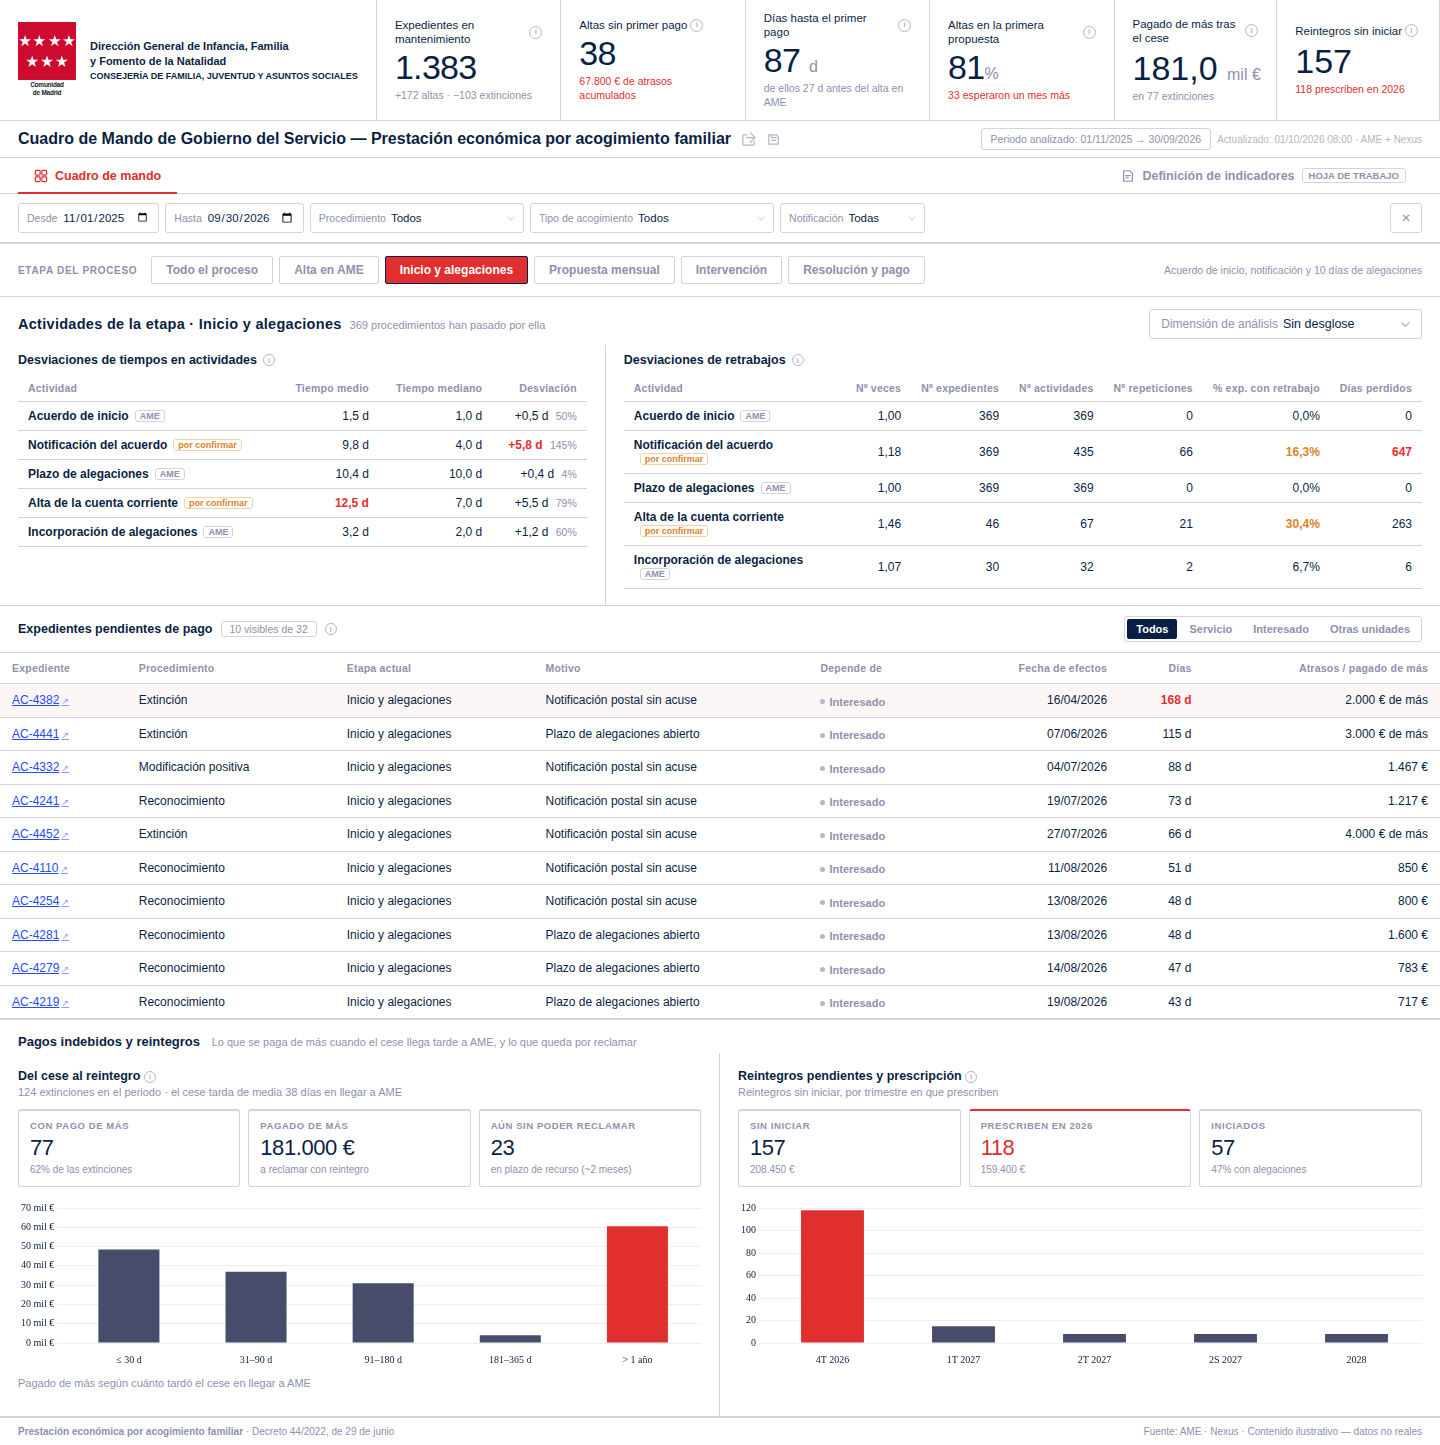
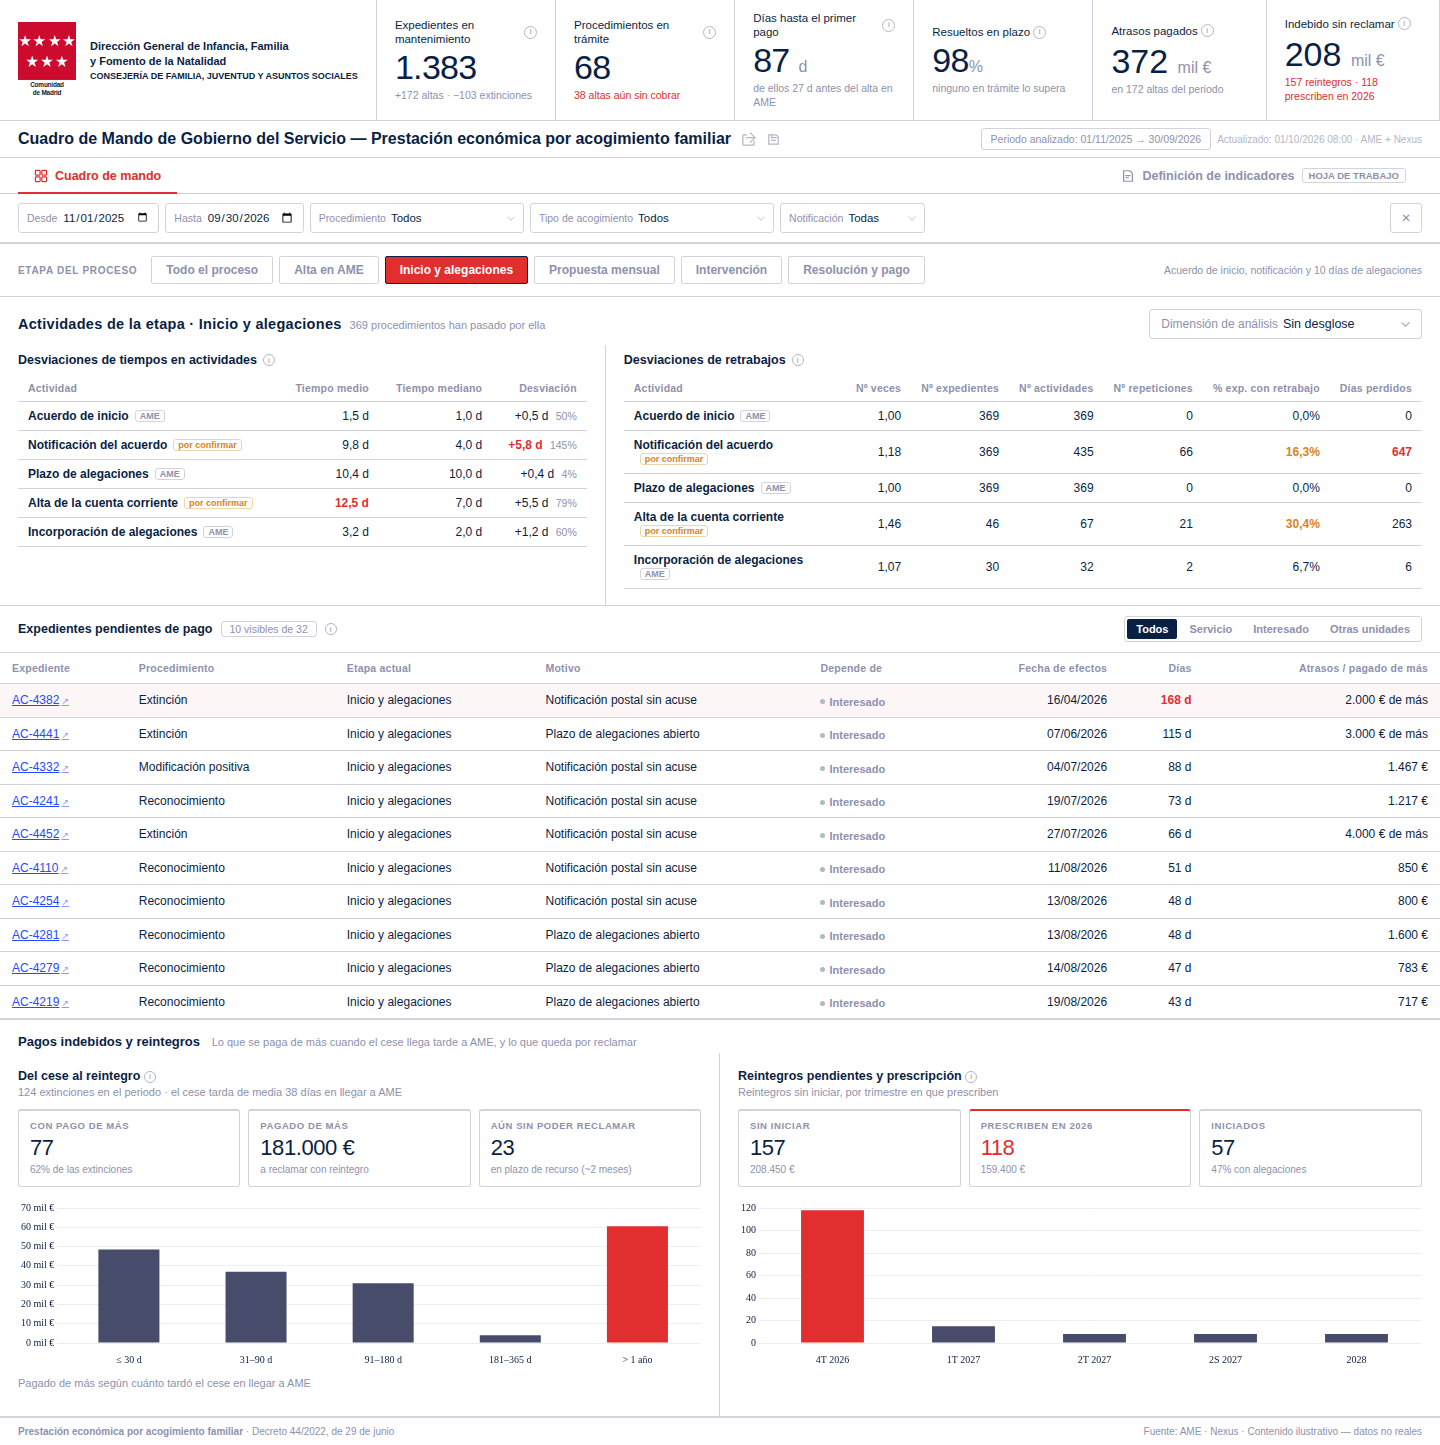
Acogimiento v2: cabecera con indicadores globales (en trámite, plazo legal de 3 meses, atrasos e indebido)
Claude-Session: https://claude.ai/code/session_012PCcGQXYr4PR8xb2pBrhox

diff --git a/mockups/MockupAcogimiento_v2.html b/mockups/MockupAcogimiento_v2.html
@@ -1115,35 +1115,42 @@ function limpiar(){ ['fProc','fTipo','fNot'].forEach(i=>$(i).value=''); $('fIni'
 
 /* ── cabecera ── */
 const TIP={
- 'Expedientes en mantenimiento':'Expedientes que cobran la prestación cada mes sin ningún procedimiento abierto. Debajo, las altas y extinciones resueltas en el periodo.',
- 'Altas sin primer pago':'Reconocimientos ya en AME que todavía no han cobrado ninguna mensualidad. Debajo, los atrasos que acumulan desde su fecha de efectos: es lo que se pagará de golpe en la primera nómina y lo que descuadra el presupuesto.',
- 'Días hasta el primer pago':'Días desde la fecha de efectos del acogimiento hasta el primer pago, en las altas ya pagadas. Debajo, cuántos de esos días pasaron antes de que el alta llegara a AME, que es la parte que graba Protección.',
- 'Altas en la primera propuesta':'Altas que entraron en la primera propuesta mensual posible. Las demás esperaron un mes más, casi siempre porque la cuenta corriente no llegó antes del cierre.',
- 'Pagado de más tras el cese':'Importe pagado entre la fecha de efectos del cese y su grabación en AME, en las extinciones del periodo. Es lo que después hay que reclamar con un reintegro.',
- 'Reintegros sin iniciar':'Pagos de más que todavía no tienen procedimiento de reintegro notificado. Notificar el acuerdo de inicio interrumpe la prescripción; debajo, los que prescriben este año si no se notifica antes.',
+ 'Expedientes en mantenimiento':'Expedientes que cobran la prestación cada mes sin ningún procedimiento abierto: el tamaño del servicio. Debajo, las altas y extinciones resueltas en el periodo.',
+ 'Procedimientos en trámite':'Reconocimientos, modificaciones y extinciones abiertos en AME a la fecha de corte. Debajo, las altas que todavía no han cobrado ninguna mensualidad: la falta de pago a las familias.',
+ 'Días hasta el primer pago':'Días desde la fecha de efectos del acogimiento hasta el primer pago, en las altas ya pagadas. Debajo, cuántos de esos días pasan antes de que Protección grabe el alta en AME: la parte que el servicio no controla.',
+ 'Resueltos en plazo':'Procedimientos resueltos dentro del plazo legal: 3 meses desde el acuerdo de inicio (Decreto 44/2022, por confirmar). No descuenta las interrupciones imputables al interesado. Debajo, los que siguen en trámite y ya lo han superado.',
+ 'Atrasos pagados':'Importe de atrasos pagado de golpe en la primera nómina de las altas del periodo (Anexo I de la propuesta). Es el coste de pagar tarde y lo que descuadra el presupuesto del mes.',
+ 'Indebido sin reclamar':'Importe pagado de más tras un cese o una modificación negativa que todavía no tiene reintegro iniciado. Notificar el acuerdo de inicio interrumpe la prescripción; debajo, los que prescriben este año.',
 };
 function ks(lbl,val,cls,sub,grp){ return `<div class="ks ${grp?'ks-pred':'ks-fix'}"><div class="ks-lbl">${lbl} <i class="ii" data-t="${TIP[lbl]||''}">i</i></div>`+
   `<div class="ks-val">${val}</div><div class="ks-delta ${cls}">${sub}</div></div>`; }
+/* Cabecera = indicadores globales del servicio, comunes a cualquier prestación (Enrique, 29/09):
+   tamaño del servicio, lo que está en trámite, cuánto se tarda y si se cumple el plazo legal;
+   y el coste del desfase con Protección en los dos sentidos: lo que se paga tarde y lo que se paga de más. */
+const PLAZO=90;   /* Decreto 44/2022: resolver y notificar en 3 meses desde el acuerdo de inicio (por confirmar con el servicio) */
+const diasPlazo=e=>e.t[2]+e.t[3]+e.t[4];   /* acuerdo de inicio → resolución definitiva */
 function renderHdr(P){
   const f=F(), rec=P.filter(e=>e.proc==='rec'), recFin=rec.filter(e=>e.fin);
   const share={'Carácter general':.6,'Carácter especial':.13,'Programa de urgencia':.27};
   const mant=Math.round(1383*(f.tipo?share[f.tipo]:1));
   const altas=recFin.length, bajas=P.filter(e=>e.proc==='ext'&&e.fin).length;
-  const pend=rec.filter(e=>!e.fin), atr=pend.reduce((a,e)=>a+(CORTE-e.efectos)/DIA/30*e.imp,0);
+  const cur=P.filter(e=>!e.fin), sinCobrar=rec.filter(e=>!e.fin).length;
   const dias=recFin.length? recFin.reduce((a,e)=>a+e.t.reduce((x,y)=>x+y,0),0)/recFin.length : 0;
   const antes=recFin.length? recFin.reduce((a,e)=>a+e.t[0],0)/recFin.length : 0;
-  const prim=recFin.length? recFin.filter(e=>!e.sinCuenta).length/recFin.length*100 : 0;
-  const aplaz=recFin.filter(e=>e.sinCuenta).length;
+  const res=P.filter(e=>e.etapa>4), enPl=res.filter(e=>diasPlazo(e)<=PLAZO).length;
+  const fuera=cur.filter(e=>e.etapa>=2 && (CORTE-(e.alta+e.t[1]*DIA))/DIA>PLAZO).length;
   $('kpiGlobal').innerHTML=
     ks('Expedientes en mantenimiento',nfmt(mant),'na',`+${nfmt(altas)} altas · −${nfmt(bajas)} extinciones`)+
-    ks('Altas sin primer pago',nfmt(pend.length),pend.length?'bad':'na',pend.length?`${eur(Math.round(atr/100)*100)} de atrasos acumulados`:'')+
+    ks('Procedimientos en trámite',nfmt(cur.length),sinCobrar?'bad':'na',sinCobrar?`${nfmt(sinCobrar)} altas aún sin cobrar`:'ninguna alta sin cobrar')+
     ks('Días hasta el primer pago',dias?Math.round(dias)+' <span class="u">d</span>':'—','na',dias?`de ellos ${Math.round(antes)} d antes del alta en AME`:'')+
-    ks('Altas en la primera propuesta',recFin.length?Math.round(prim)+'<span class="u">%</span>':'—',aplaz?'bad':'na',aplaz?`${nfmt(aplaz)} esperaron un mes más`:'');
-  const ext=P.filter(e=>e.proc==='ext'), ind=ext.filter(e=>e.indeb>0);
-  const R=REINT.filter(r=>(!f.tipo||r.tipo===f.tipo)&&!r.iniciado), r26=R.filter(r=>r.q===0).length;
+    ks('Resueltos en plazo',res.length?Math.round(enPl/res.length*100)+'<span class="u">%</span>':'—',fuera?'bad':'na',fuera?`${nfmt(fuera)} en trámite ya lo superan`:'ninguno en trámite lo supera');
+  /* atrasos: lo que se paga de golpe en la primera nómina (Anexo I, «importe de atrasos») */
+  const atr=recFin.reduce((a,e)=>a+Math.max(0,e.t.reduce((x,y)=>x+y,0)-30)/30*e.imp,0);
+  const R=REINT.filter(r=>(!f.tipo||r.tipo===f.tipo)&&!r.iniciado), r26=R.filter(r=>r.q===0);
+  const m=v=>(v/1000).toFixed(0)+' <span class="u">mil €</span>';
   $('kpiInd').innerHTML=
-    ks('Pagado de más tras el cese',(ind.reduce((a,e)=>a+e.indeb,0)/1000).toFixed(1).replace('.',',')+' <span class="u">mil €</span>','na',`en ${nfmt(ind.length)} extinciones`,true)+
-    ks('Reintegros sin iniciar',nfmt(R.length),'bad',`${nfmt(r26)} prescriben en 2026`,true);
+    ks('Atrasos pagados',m(atr),'na',`en ${nfmt(altas)} altas del periodo`,true)+
+    ks('Indebido sin reclamar',m(R.reduce((a,r)=>a+r.imp,0)),'bad',`${nfmt(R.length)} reintegros · ${nfmt(r26.length)} prescriben en 2026`,true);
   $('scopeChip').textContent='Periodo analizado: '+fdate(f.ini)+' → '+fdate(f.fin-DIA);
 }
 
@@ -1328,12 +1335,13 @@ document.querySelectorAll('.tabb').forEach(b=>b.onclick=()=>{
 /* ── hoja de definición de indicadores ── */
 const DFILAS=[
  ['Expedientes en mantenimiento','Expedientes que cobran cada mes sin procedimiento abierto','Resolución de reconocimiento','Extinción','Listado de mantenimiento de AME',1],
- ['Altas sin primer pago','Reconocimientos en AME sin ninguna mensualidad cobrada, y sus atrasos','Alta en AME','Primer pago en nómina','Anexo I · importe de atrasos',1],
+ ['Procedimientos en trámite','Procedimientos abiertos en AME, y altas que aún no han cobrado','Acuerdo de inicio','Resolución','—',1],
+ ['Resueltos en plazo','Resueltos en 3 meses desde el acuerdo de inicio, y en trámite que ya lo superan','Acuerdo de inicio','Resolución notificada','Decreto 44/2022 · plazo máximo',1],
+ ['Atrasos pagados','Importe de atrasos pagado en la primera nómina de cada alta','Fecha de efectos','Primer pago','Anexo I · importe de atrasos',1],
  ['Días hasta el primer pago','Días desde la fecha de efectos hasta el primer pago, en altas pagadas','Fecha de efectos del acogimiento','Primer pago en nómina','—',1],
  ['Días antes del alta en AME','Parte de esos días que pasa antes de que Protección grabe el alta','Fecha de efectos','Alta en AME','Comunicaciones del pleno',1],
- ['Altas en la primera propuesta','Altas que entran en la primera propuesta posible','Expediente completo','Propuesta mensual','Anexo I de la propuesta',1],
- ['Pagado de más tras el cese','Importe pagado entre el cese y su grabación en AME','Fecha de efectos del cese','Alta de la extinción en AME','Anexo II · importes de reintegro',1],
- ['Reintegros sin iniciar','Pagos de más sin acuerdo de inicio de reintegro notificado, y cuándo prescriben','Resolución de extinción o modificación negativa','Notificación del acuerdo de inicio del reintegro','Relación de reintegros del servicio · plazo de prescripción por confirmar',1],
+ ['Pagado de más tras el cese','Mensualidades pagadas entre el cese y su grabación en AME','Fecha de efectos del cese','Alta de la extinción en AME','Anexo II · importes de reintegro',1],
+ ['Indebido sin reclamar','Importe pagado de más sin acuerdo de inicio de reintegro notificado, y cuándo prescribe','Resolución de extinción o modificación negativa','Notificación del acuerdo de inicio del reintegro','Relación de reintegros del servicio · plazo de prescripción por confirmar',1],
  ['Desviación de tiempo','Tiempo medio menos tiempo mediano de una actividad','Inicio de la actividad','Fin de la actividad','—',1],
  ['% de expedientes con retrabajo','Expedientes que repiten la actividad, sobre los que pasan por ella','Primera ejecución','Última ejecución','—',1],
  ['Días perdidos por retrabajo','Repeticiones de la actividad por su tiempo medio','Primera ejecución','Última ejecución','—',1],
